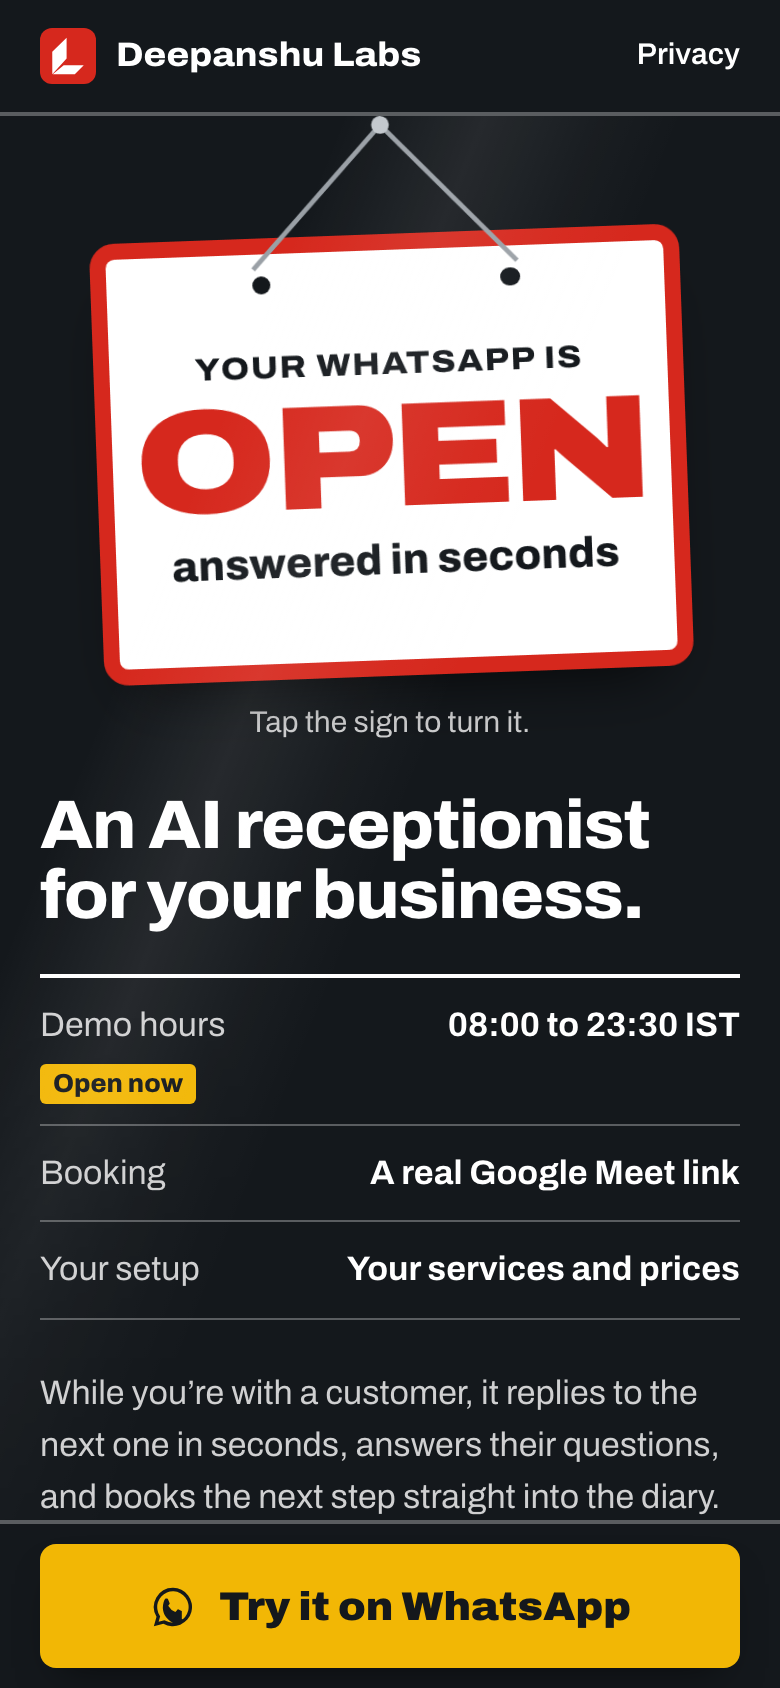
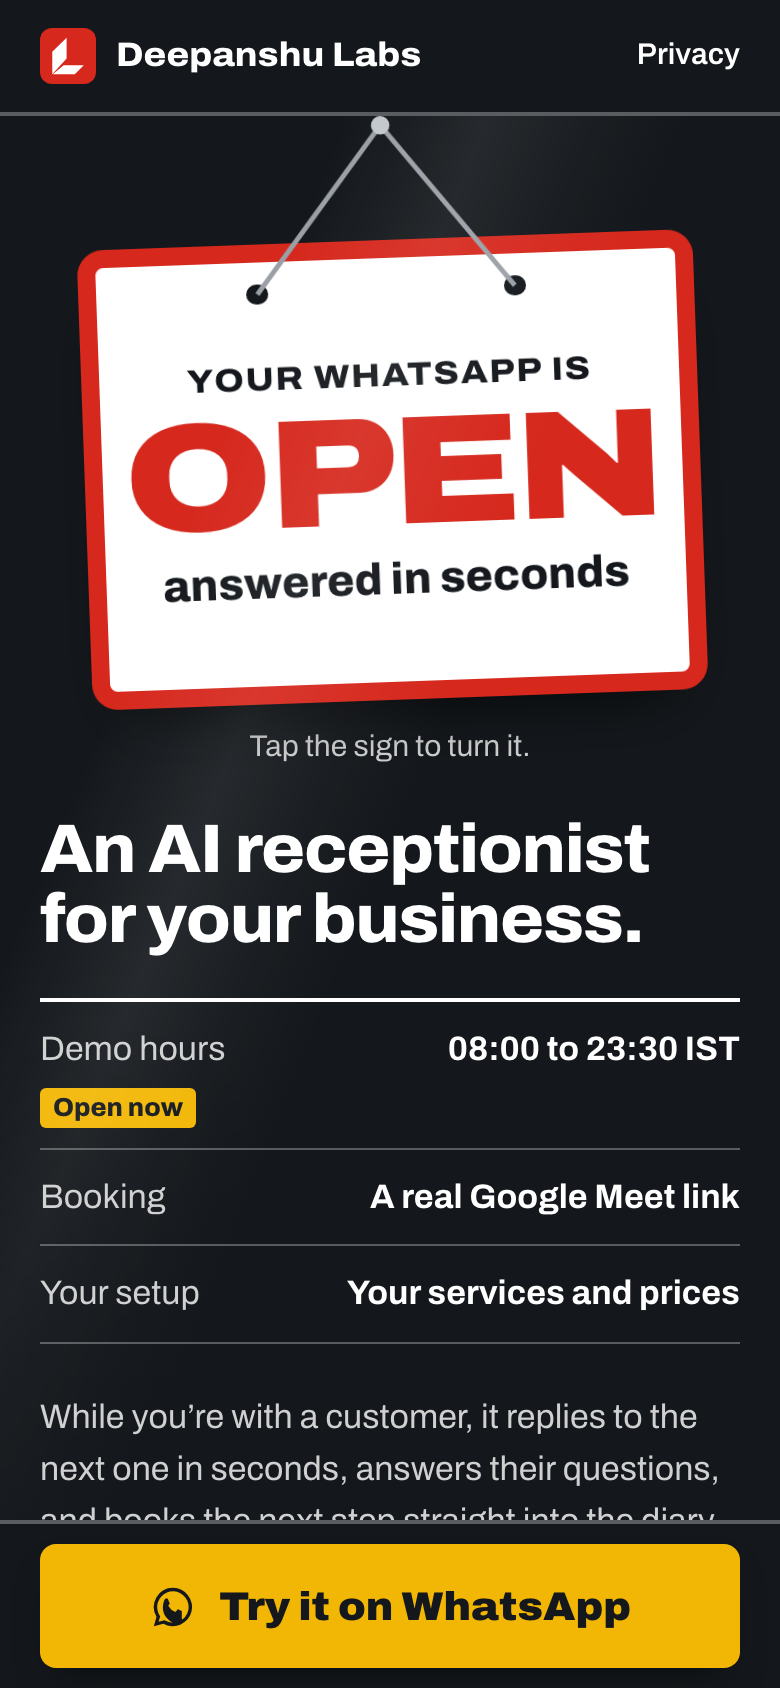
Labs: cord meets the eyelets, sign turns without waiting for labs.js, review notes recorded

Changed region(s): [[0.0308, 0.0924, 0.9538, 0.9242], [0.4615, 0.0616, 0.5231, 0.0924]]

diff --git a/labs/labs.css b/labs/labs.css
@@ -49,7 +49,7 @@ button { font: inherit; color: inherit; }
 .push.dark:active { background: #000; }
 .push.dark:focus-visible { outline-color: var(--ink); }
 .push.small { min-height: 46px; padding: 0.5em 1.2em; font-size: 1rem; }
-.bar .push { display: none; }
+.bar .push { display: none; box-shadow: none; }
 
 /* ---- hero: the door ---- */
 .door { position: relative; overflow: clip; background: var(--glass); }
@@ -60,9 +60,9 @@ button { font: inherit; color: inherit; }
 .vinyl .hours { order: 2; margin-top: 22px; }
 .vinyl .lede { order: 3; margin-top: 24px; }
 /* cord and sign are one body, hung from the nail and tilted about it */
-.hang { container-type: inline-size; width: min(88%, 360px, 35svh); margin-inline: auto; }
+.hang { container-type: inline-size; width: min(88%, 360px); margin-inline: auto; }
 .swing { position: relative; padding-top: 20cqw; rotate: -2deg; translate: -1.6cqw 0; transform-origin: 50% 1.5cqw; }
-.cord { position: absolute; z-index: 2; left: 0; top: 0; width: 100%; height: 25.25cqw; overflow: visible; pointer-events: none; }
+.cord { position: absolute; z-index: 2; left: 0; top: 0; width: 100%; height: 28.25cqw; overflow: visible; pointer-events: none; }
 .cord path { fill: none; stroke: #9aa0a6; stroke-width: 0.8; stroke-linejoin: round; }
 .cord circle { fill: #c3c8cd; }
 .sign { position: relative; display: block; width: 100%; aspect-ratio: 334 / 250; padding: 0; background: none; border: 0; cursor: pointer; perspective: 1200px; }
@@ -180,7 +180,7 @@ footer a { display: inline-flex; align-items: center; min-height: 36px; color: v
 .gone .face.busy { transform: none; }
 .gone .face b { font-size: 17.5cqw; }
 .gone .hang { width: min(88%, 420px, 46svh); }
-.gone h1 { font-size: clamp(2.1rem, 8.8vw, 3.4rem); font-weight: 800; font-stretch: 104%; line-height: 1.05; letter-spacing: -0.02em; }
+.gone h1 { text-wrap: balance; font-size: clamp(2.1rem, 8.8vw, 3.4rem); font-weight: 800; font-stretch: 104%; line-height: 1.05; letter-spacing: -0.02em; }
 .gone p { font-size: 1.25rem; font-weight: 700; }
 
 @media (min-width: 900px) {
@@ -213,4 +213,4 @@ footer a { display: inline-flex; align-items: center; min-height: 36px; color: v
   *, *::before, *::after { transition-duration: 0.01ms !important; animation-duration: 0.01ms !important; }
 }
 /* short phones: drop the hint so all three rows clear the dock */
-@media (max-height: 700px) and (max-width: 899px) { .turn { display: none; } .door .wrap { gap: 16px; } }
+@media (max-height: 700px) and (max-width: 899px) { .hang { width: min(88%, 360px, 35svh); } .turn { display: none; } .door .wrap { gap: 16px; } }

diff --git a/labs/index.html b/labs/index.html
@@ -35,7 +35,7 @@
       <div class="wrap">
         <div class="hang">
           <div class="swing" id="swing">
-            <svg class="cord" viewBox="0 0 100 25.25" preserveAspectRatio="none" aria-hidden="true" focusable="false"><path d="M27.65 25.25 50 1.5 72.35 25.25"/><circle cx="50" cy="1.5" r="1.5"/></svg>
+            <svg class="cord" viewBox="0 0 100 28.25" preserveAspectRatio="none" aria-hidden="true" focusable="false"><path d="M29.09 28.25 50 1.5 70.91 28.25"/><circle cx="50" cy="1.5" r="1.5"/></svg>
             <button class="sign" id="sign" type="button" aria-pressed="false" aria-label="Sign: Your WhatsApp is open, answered in seconds.">
               <span class="card">
                 <span class="face open"><small>Your WhatsApp is</small><b>Open</b><span>answered in seconds</span></span>
@@ -43,7 +43,21 @@
               </span>
             </button>
           </div>
-          <script>(function(s){if(!matchMedia('(prefers-reduced-motion: reduce)').matches){s.classList.add('pre');s.setAttribute('aria-pressed','true')}})(document.getElementById('sign'))</script>
+          <script>
+            /* the sign arrives showing BUSY and turns itself over once; this does not wait for labs.js */
+            (function (s, w) {
+              if (matchMedia('(prefers-reduced-motion: reduce)').matches) return;
+              s.classList.add('pre'); s.setAttribute('aria-pressed', 'true');
+              requestAnimationFrame(function () { requestAnimationFrame(function () {
+                s.classList.remove('pre');
+                setTimeout(function () {
+                  s.setAttribute('aria-pressed', 'false');
+                  s.dispatchEvent(new Event('turned'));
+                  setTimeout(function () { w.classList.add('settle'); }, 520);
+                }, 700);
+              }); });
+            })(document.getElementById('sign'), document.getElementById('swing'));
+          </script>
           <span class="turn" id="sign-hint" aria-hidden="true"></span>
         </div>
         <div class="vinyl">

diff --git a/labs/labs.js b/labs/labs.js
@@ -17,13 +17,8 @@
     };
     var turn = function (to) { sign.setAttribute('aria-pressed', String(to)); say(); setTimeout(settle, 520); };
     sign.addEventListener('click', function () { turn(sign.getAttribute('aria-pressed') !== 'true'); });
-    if (sign.classList.contains('pre')) {
-      // the page arrived showing BUSY (set before first paint); turn it over once
-      requestAnimationFrame(function () { requestAnimationFrame(function () {
-        sign.classList.remove('pre');
-        setTimeout(function () { turn(false); }, 700);
-      }); });
-    }
+    // the first turn is done by the inline script beside the sign; keep the label and hint in step with it
+    sign.addEventListener('turned', say);
     say();
   }
 

diff --git a/labs/404.html b/labs/404.html
@@ -35,7 +35,7 @@
     <div class="wrap gone">
       <div class="hang">
         <div class="swing">
-          <svg class="cord" viewBox="0 0 100 25.25" preserveAspectRatio="none" aria-hidden="true" focusable="false"><path d="M27.65 25.25 50 1.5 72.35 25.25"/><circle cx="50" cy="1.5" r="1.5"/></svg>
+          <svg class="cord" viewBox="0 0 100 28.25" preserveAspectRatio="none" aria-hidden="true" focusable="false"><path d="M29.09 28.25 50 1.5 70.91 28.25"/><circle cx="50" cy="1.5" r="1.5"/></svg>
           <div class="sign"><span class="card"><span class="face busy" aria-hidden="true"><small>Sorry, we’re</small><b>Closed</b><span>on this page</span></span></span></div>
         </div>
       </div>

diff --git a/labs/.impeccable/surfaces/labs-index-html.md b/labs/.impeccable/surfaces/labs-index-html.md
@@ -14,8 +14,28 @@ Action: tap "Try it on WhatsApp" and message the demo line.
 Proof on hand: the live demo line, an example conversation labelled as an example, the four demo steps, five commitments.
 Constraints: no cookies, analytics or forms; privacy policy carried word for word; must look unlike the portfolio; no invented prices, customers or statistics.
 Confirmed by owner: rebuild as static pages in this repo; audience widened from UK trades to any small business; the engineer's About and work sections removed entirely; direction "Open Sign" picked from the decision page.
-Copy changed for the wider audience (to be listed to the owner): title and description, the lede, "rate card in pounds", the example chat's "plumbing firm", plus new sign wording.
-Unresolved: whether to name a country; a privacy-policy sentence still mentions "the projects shown".
+## Changes and open points for the owner
+
+Copy changed for the wider audience:
+- Title and meta description: "for UK trades" became "for small businesses"; "rate card" became "prices".
+- Hero paragraph: "An AI receptionist for plumbers, electricians and builders. While you're on a job, it replies to your customers in seconds" became "While you're with a customer, it replies to the next one in seconds"; "your rate card in pounds" became "your prices".
+- What to expect: "your rate card in pounds" became "your prices".
+- Example chat: "for my plumbing firm" became "for my salon".
+- New wording on the sign: "Your WhatsApp is OPEN, answered in seconds" and "Sorry, we're BUSY with a customer"; on the not-found page, "Sorry, we're CLOSED on this page".
+- The old headline "Your WhatsApp, answered in seconds." is no longer a heading; its words are on the sign. The h1 is now "An AI receptionist for your business."
+- On phones the hours values are shortened to "08:00 to 23:30 IST", "A real Google Meet link" and "Your services and prices"; the full wording shows on desktop and in the How section.
+
+Removed or added without being asked:
+- Nav items About and Work are gone with their sections; "What to expect" and "Privacy" were added to the bar.
+- The chat example lost its timestamps, the "DL" avatar and the "LIVE" flag.
+- The 01 to 05 numerals on What to expect are gone (they were not a sequence).
+- GitHub left the "reach me directly" list; it is still in the footer.
+
+Open points only the owner can settle:
+- "Message me on WhatsApp" opens the same number as the AI demo line (+91 99996 02901). Carried from the old page.
+- The privacy policy still says "Links to WhatsApp, LinkedIn, GitHub and the projects shown". No projects are shown now. Changing it needs the owner's wording and a new effective date.
+- Unknown URLs under /labs get Vercel's default not-found page, because the repo has no root 404.html. /labs/404 exists and is reachable directly.
+- Whether to name a country now that the audience is any small business.
 
 ## Direction contract
 

diff --git a/labs/DESIGN.md b/labs/DESIGN.md
@@ -183,7 +183,7 @@ The colours of a shop door: dark glass, white enamel, sign red and a brass-amber
 **Character:** Archivo set wide and black reads as cut-vinyl sign lettering; at regular width and weight it is a plain, sturdy text face. One family does both jobs, so the sign and the small print sound like the same shop.
 
 ### Hierarchy
-- **Sign** (900, width 118, 25% of the sign's own width, 0.9): the one word on the sign, "OPEN", "BUSY" or "404". Sized in container units so it always fits its face.
+- **Sign** (900, width 118, 25% of the sign's own width, 0.9): the one word on the sign, "OPEN", "BUSY" or, on the not-found page, "CLOSED" (set smaller, at 17.5%). Sized in container units so it always fits its face.
 - **Headline** (900, width 108, clamp(2.2rem, 6vw, 4.25rem), 0.98): one per section, capped near 16ch.
 - **Lettering** (800, width 104, clamp(2.1rem, 8.8vw, 3.4rem), 1.02): the white line on the glass under the sign, which is the page's h1. Capped at 11.5em so it breaks into two even lines.
 - **Title** (800, 1.375rem, 1.15): steps and commitments.
